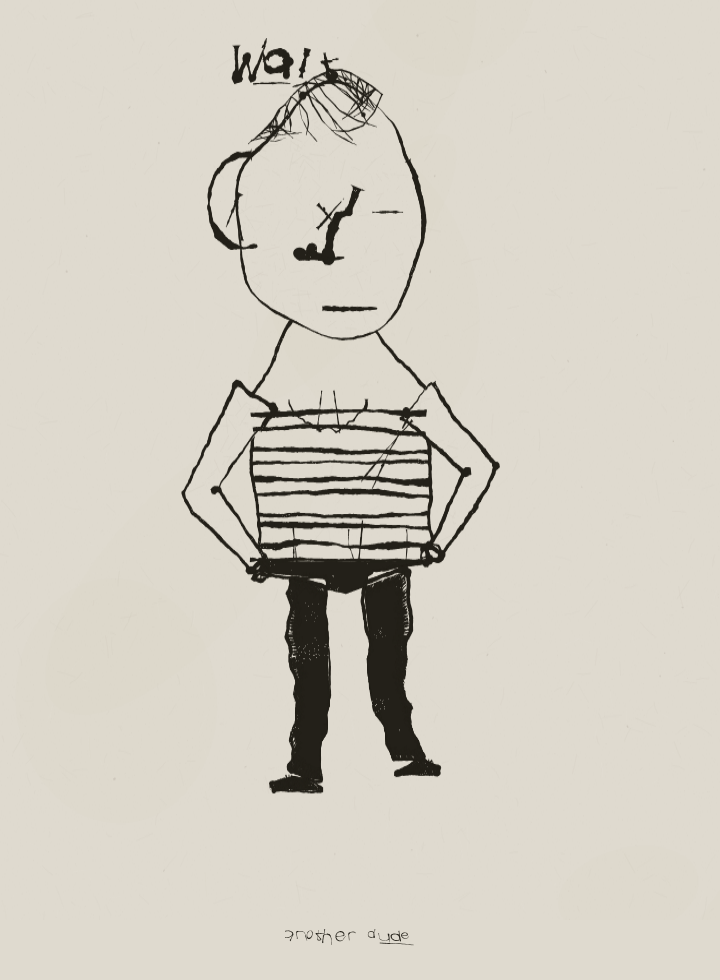
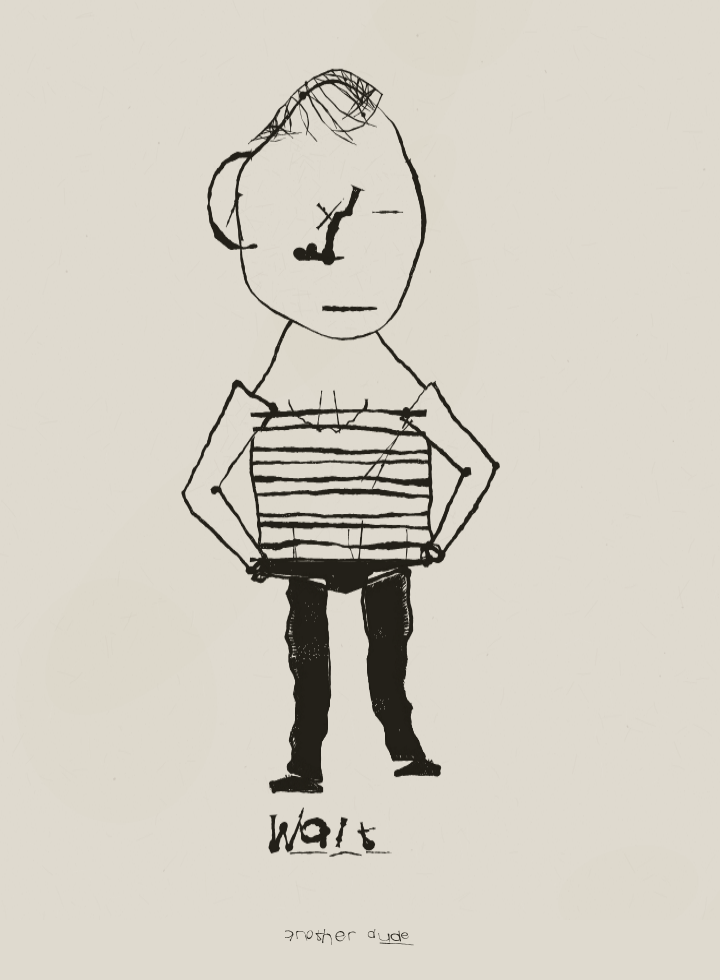
Gauntlet: hair laid as strokes, not a filled wedge
The closing critic's note was that every head was a white oval with the
same hat of ink, and the sheet read as one drawing repeated forty-eight
times. So:

- Strokes gained a taper, so a mark can end in a point instead of
  stopping square.
- A large share of hair styles now lay 30-55 discrete strokes from a
  parting, thick where they leave the scalp and gone by the tip, sweeping
  with the growth direction and starting slightly outside the silhouette
  so they break it irregularly rather than terminating on a smooth noisy
  edge.
- Roughly a third of heads carry no black at all, which is what gives a
  sheet its rhythm of dark and light.

Claude-Session: https://claude.ai/code/session_01RJWY9ufwnD6fjwW6ve4one

Changed region(s): [[0.3667, 0.8265, 0.5194, 0.8878], [0.3056, 0.0306, 0.4889, 0.0918]]

diff --git a/dude.js b/dude.js
@@ -176,7 +176,8 @@
       while (ang < -Math.PI) ang += Math.PI * 2;
       const turn = Math.abs(ang);
       if (turn > 0.35) press *= 1 + Math.min(0.7, (turn - 0.35) * 1.1); // ink pools in the corner
-      W[i] = Math.max(0.3, w * Math.min(2.6, Math.max(0.2, press)));
+      if (opt.taper !== undefined) press *= 1 + (opt.taper - 1) * Math.pow(t01, opt.taperPow ?? 1.4);
+      W[i] = Math.max(0.26, w * Math.min(2.6, Math.max(0.08, press)));
       // the nib lifts rarely and briefly; a dashed line is a broken pen,
       // not a dry one. Thin strokes skip more than fat ones.
       const dry = fbm2(u * 0.19 + 11, sd * 0.02, sd + 137);
@@ -299,6 +300,7 @@
       const moved = sub.map((q, i) => ({ x: q.x + sn[i].x * off, y: q.y + sn[i].y * off }));
       nib(c, rng, moved, {
         w: w * rng.f(0.5, 0.78),
+        taper: opt.taper,
         color: opt.color,
         alpha: opt.alpha,
         dry: (opt.dry ?? 1) * 1.6,
@@ -316,6 +318,8 @@
     stroke(c, rng, pts, {
       closed: !!opt.closed,
       doubled: !!opt.doubled,
+      taper: opt.taper,
+      overshoot: opt.overshoot,
       w: opt.w ?? 1.8,
       passes: opt.passes ?? 1,
       dry: opt.dry,
@@ -1065,6 +1069,9 @@
     const k = h._s / 100;
     const lines = opt.lines ?? 30;
     const bow = opt.bow ?? 0.2;
+    // one parting, and everything sweeps away from it
+    const part = rng.f(0.2, 0.8);
+    const sweep = rng.f(-0.35, 0.35);
     for (let i = 0; i < lines; i++) {
       const t = i / (lines - 1 || 1);
       const f = front[Math.min(front.length - 1, Math.round(t * (front.length - 1)))];
@@ -1073,19 +1080,25 @@
       const dx = f.x - g.x;
       const dy = f.y - g.y;
       const d = Math.hypot(dx, dy) || 1;
-      const swing = bow * d * rng.f(-1, 1);
-      const stop = rng.f(0.72, 1.0); // not every hair reaches the hairline
+      const swing = (bow + sweep * (t - part)) * d * rng.f(0.5, 1.3);
+      const stop = rng.f(0.55, 1.05); // tips end at different depths
+      // start a little past the outer edge so the strokes break the silhouette
+      const out = rng.f(-1, 3.5) * k;
+      const ox = g.x - h._cx;
+      const oy = g.y - h._cy;
+      const ol = Math.hypot(ox, oy) || 1;
+      const g0 = { x: g.x + (ox / ol) * out, y: g.y + (oy / ol) * out };
       const path = [];
-      for (let j = 0; j <= 4; j++) {
-        const u = (j / 4) * stop;
+      for (let j = 0; j <= 5; j++) {
+        const u = (j / 5) * stop;
         path.push({
-          x: g.x + dx * u + (-dy / d) * swing * Math.sin(u * Math.PI),
-          y: g.y + dy * u + (dx / d) * swing * Math.sin(u * Math.PI),
+          x: g0.x + dx * u + (-dy / d) * swing * Math.sin(u * Math.PI),
+          y: g0.y + dy * u + (dx / d) * swing * Math.sin(u * Math.PI),
         });
       }
-      inkPoly(c, rng, path, { w: rng.f(0.8, 1.5) * k, dry: 0.7 });
+      // thick where it leaves the scalp, gone by the tip
+      inkPoly(c, rng, path, { w: rng.f(1.9, 4.0) * k, taper: rng.f(0.08, 0.3), dry: 0.5, overshoot: false });
     }
-    inkPoly(c, rng, top, { w: 1.4 * k, dry: 1.5 });
   }
 
   function shortTicks(c, rng, skull, lineY, count, len) {
@@ -1207,9 +1220,16 @@
       return;
     }
 
+    if (style === "thatch") {
+      // no black at all: hair as laid strokes over an open crown
+      const h = mk({ lineY: -0.46, recede: rng.f(-0.04, 0.14), sideBias: rng.f(-0.2, 0.2), puff: 0.05, wob: 0.05 });
+      if (h) combMass(c, rng, h, { lines: rng.i(30, 54), bow: rng.f(0.06, 0.3) });
+      return;
+    }
+
     if (style === "comb") {
       const h = mk({ lineY: -0.5, recede: 0.13, sideBias: rng.sign() * 0.14, puff: 0.065, wob: 0.04 });
-      if (h) combMass(c, rng, h, { lines: 34, bow: 0.26 });
+      if (h) combMass(c, rng, h, { lines: rng.i(30, 48), bow: rng.f(0.1, 0.34) });
       return;
     }
 
@@ -2331,12 +2351,13 @@
 
   function makeDude(rng) {
     const hairStyles = [
-      "buzz", "buzz", "bowl", "bowl", "bowl",
-      "spiky", "curly", "side", "side",
-      "comb", "comb", "comb",
+      "buzz", "buzz", "bowl", "bowl",
+      "spiky", "curly", "side",
+      "comb", "comb", "comb", "comb", "comb", "comb",
+      "thatch", "thatch", "thatch", "thatch",
       "beanie", "flat", "baseball",
-      "band", "messy", "messy",
-      "recede", "bald",
+      "band", "messy",
+      "recede", "recede", "bald", "bald",
     ];
     const eyeStyles = ["open", "open", "open", "open", "dot", "dot", "slit", "angry", "x", "glasses", "glasses", "shades", "patch", "wink"];
     const noseStyles = ["long", "long", "long", "long", "long", "hook", "hook", "hook", "hook", "tri", "button", "button"];

diff --git a/progress.html b/progress.html
@@ -80,11 +80,31 @@
   <h3>“The paper is a single flat RGB value with no fibre or tooth.”</h3>
   <p>Blooms, then fibre lying in the sheet, then tooth, then the odd fleck of pulp. And the tooth that shows through a black mass now appears in patches where the sheet rides high, not as an even sprinkle.</p>
 
+  <h3>“Zero blots, zero crossed-and-continued strokes, zero corrections across ninety-six faces.”</h3>
+  <p>The pen now runs past a corner instead of stopping on it, and drops the occasional blot where it sat too long.</p>
+
+  <h3>“The black masses carry an identical erosion band at the edge — same grain on the smallest head as the largest.”</h3>
+  <p>The screen-space tooth filter is dialled right back. The erosion that reads as ink lives in the mass itself, at the scale of the mark.</p>
+
+  <h3>“Limb edges are machine-parallel at constant width — a stroked path, not two hand-drawn lines.”</h3>
+  <p>Correct, and the fix is structural: the two edges of a limb are no longer one centreline offset both ways. Each carries its own noise, so they wobble and taper independently. Hems are drawn arcs and collars are drawn arcs; there is no ruled line and no compass ellipse left on the figure.</p>
+
+  <h3>“The colour alone announces two different tools.”</h3>
+  <p>Gone. The reference plates have no fill; value comes from hatching and solid black. And anywhere paper is painted over the drawing to occlude it, the fibre is restamped on top — otherwise the figure reads as a cut-out pasted on the sheet.</p>
+
+  <h3>“Every face is a white oval with the same hat of ink; the sheet reads as one drawing repeated forty-eight times.”</h3>
+  <p>The last and largest note. Hair is no longer a filled black shape with a roughened boundary on every head. A large share of styles now lay 30–55 discrete strokes from a parting, thick where they leave the scalp and tapering to nothing at the tip, sweeping with the growth direction and starting slightly outside the silhouette so they break it irregularly. Roughly a third of heads now carry no black at all, which is what gives the sheet its rhythm of dark and light.</p>
+
+  <h3>What the critics have stopped saying</h3>
+  <p>The lettering. Asked to look hard at repeated letters inside a single name, the last critic zoomed in and reported: <em>“In OTTO the first O is broad and heavy with a top-left overshoot spur, the second narrower, lighter, pointed at the apex… In GUS MOSS all three S's differ. Genuine per-glyph variation.”</em> They called it the strongest part of the page. That one is won.</p>
+
   <h2>Still open</h2>
   <ul>
+    <li>Every round, the critics still identify our sheets and still rank both Mannay plates above them. The gap has narrowed — one round put ours above one of his — but he has not been beaten.</li>
+    <li>The standing note is that features sit <em>in</em> the head on his sheets and <em>on</em> it on ours: eyes built as sockets with a lid clipping the iris and a brow that relates to that lid, rather than a ring with a pupil in it.</li>
     <li>Hatched hair is lighter than the reference's.</li>
-    <li>The body has no reference plate to be judged against, so it is judged only on whether it looks like the same hand as the head.</li>
     <li>Nose variety: the long one still dominates.</li>
+    <li>The body has no reference plate, so it is judged only on whether it looks like the same hand as the head above it.</li>
   </ul>
 </main>
 </body>
